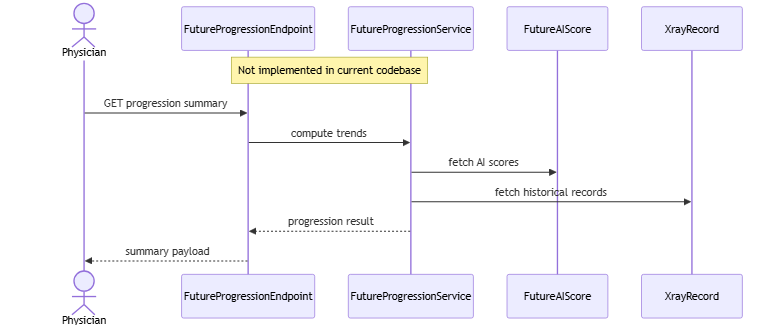
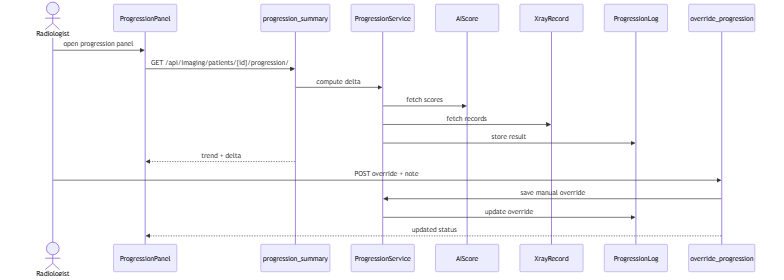
docs(SDD): adjustments for unimplemented modules

diff --git a/documentation/sequence diagrams/3.3_Sequence Diagram.md b/documentation/sequence diagrams/3.3_Sequence Diagram.md
@@ -1,16 +1,24 @@
 ```mermaid
 sequenceDiagram
-    actor Physician
-    participant Endpoint as FutureProgressionEndpoint
-    participant Service as FutureProgressionService
-    participant Score as FutureAIScore
+    actor Radiologist
+    participant UI as ProgressionPanel
+    participant API as progression_summary
+    participant Service as ProgressionService
+    participant Score as AiScore
     participant Rec as XrayRecord
+    participant Log as ProgressionLog
+    participant Override as override_progression
 
-    Note over Endpoint,Service: Not implemented in current codebase
-    Physician->>Endpoint: GET progression summary
-    Endpoint->>Service: compute trends
-    Service->>Score: fetch AI scores
-    Service->>Rec: fetch historical records
-    Service-->>Endpoint: progression result
-    Endpoint-->>Physician: summary payload
+    Radiologist->>UI: open progression panel
+    UI->>API: GET /api/imaging/patients/{id}/progression/
+    API->>Service: compute delta
+    Service->>Score: fetch scores
+    Service->>Rec: fetch records
+    Service->>Log: store result
+    API-->>UI: trend + delta
+
+    Radiologist->>Override: POST override + note
+    Override->>Service: save manual override
+    Service->>Log: update override
+    Override-->>UI: updated status
 ```

diff --git a/documentation/class diagrams/3.1_Class Diagram.md b/documentation/class diagrams/3.1_Class Diagram.md
@@ -3,23 +3,33 @@ classDiagram
     class ProcessedImage {
         +file processed_image
         +json preprocessing_metadata
+        +string ai_tensor_path
     }
 
     class XrayRecord {
         +UUID transaction_id
-        +string status
+        +string ai_status
+    }
+
+    class AiScore {
+        +float probability
+        +string model_version
+        +string ai_status
+        +int inference_ms
+        +datetime created_at
     }
 
     class preprocess_xray
     class upload_xray
-
-    class FutureAIScorer <<planned>>
-    class FutureAIScore <<planned>>
+    class score_xray
+    class AIInferenceService
 
     XrayRecord "1" --> "0..1" ProcessedImage
+    XrayRecord "1" --> "0..1" AiScore
     upload_xray ..> preprocess_xray : generate .npy
     preprocess_xray ..> ProcessedImage : ai_tensor_path
-
-    FutureAIScorer ..> ProcessedImage : load tensor
-    FutureAIScorer ..> FutureAIScore : store scores
+    score_xray ..> AIInferenceService : run inference
+    AIInferenceService ..> AiScore : store score
+    AIInferenceService ..> XrayRecord : update ai_status
+    ProcessedImage ..> AIInferenceService : tensor input
 ```

diff --git a/documentation/class diagrams/4.2_Class Diagram.md b/documentation/class diagrams/4.2_Class Diagram.md
@@ -2,18 +2,29 @@
 classDiagram
     class Patient
     class XrayRecord
+    class DiagnosticReport
+    class Notification
 
     class TechnologistDashboardPage
     class RadiologistDashboardPage
+    class PhysicianDashboardPage
     class technologist_dashboard
     class radiologist_queue
+    class physician_dashboard
+    class notifications
     class TechDashboardRecordSerializer
     class RadiologistQueueSerializer
+    class PhysicianReportSerializer
 
     Patient "1" --> "many" XrayRecord
+    XrayRecord "1" --> "0..1" DiagnosticReport
+    Notification "many" --> "1" DiagnosticReport
 
     TechnologistDashboardPage ..> technologist_dashboard : GET
     RadiologistDashboardPage ..> radiologist_queue : GET
+    PhysicianDashboardPage ..> physician_dashboard : GET
+    PhysicianDashboardPage ..> notifications : GET
     technologist_dashboard ..> TechDashboardRecordSerializer
     radiologist_queue ..> RadiologistQueueSerializer
+    physician_dashboard ..> PhysicianReportSerializer
 ```

diff --git a/documentation/sequence diagrams/4.2_Sequence Diagram.md b/documentation/sequence diagrams/4.2_Sequence Diagram.md
@@ -2,10 +2,14 @@
 sequenceDiagram
     actor Technologist
     actor Radiologist
+    actor Physician
     participant TechPage as TechnologistDashboardPage
     participant RadPage as RadiologistDashboardPage
+    participant PhysPage as PhysicianDashboardPage
     participant TechAPI as technologist_dashboard
     participant RadAPI as radiologist_queue
+    participant PhysAPI as physician_dashboard
+    participant NotifyAPI as notifications
 
     Technologist->>TechPage: open dashboard
     TechPage->>TechAPI: GET /api/imaging/dashboard/technologist/
@@ -14,4 +18,10 @@ sequenceDiagram
     Radiologist->>RadPage: open dashboard
     RadPage->>RadAPI: GET /api/imaging/queue/
     RadAPI-->>RadPage: paginated records
+
+    Physician->>PhysPage: open dashboard
+    PhysPage->>PhysAPI: GET /api/reports/dashboard/physician/
+    PhysAPI-->>PhysPage: report rows
+    PhysPage->>NotifyAPI: GET /api/notifications/
+    NotifyAPI-->>PhysPage: alerts
 ```

diff --git a/documentation/sequence diagrams/4.3_Sequence Diagram.md b/documentation/sequence diagrams/4.3_Sequence Diagram.md
@@ -1,15 +1,20 @@
 ```mermaid
 sequenceDiagram
     actor Physician
-    participant UI as ReportQueryBuilder
-    participant API as ReportingController
-    participant Agg as DataAggregationService
-    participant PDF as PDFExportService
+    participant UI as ReportFilters
+    participant API as aggregate_reports
+    participant Agg as ReportAggregationService
+    participant Export as export_report
+    participant PDF as ReportExport
 
-    Note over UI,API: Not implemented in current codebase
     Physician->>UI: set report filters
-    UI->>API: GET /api/reports
-    API->>Agg: aggregate data
-    API->>PDF: render PDF
-    API-->>UI: report payload
+    UI->>API: GET /api/reports/aggregate/
+    API->>Agg: aggregate metrics
+    Agg-->>API: results
+    API-->>UI: charts + table
+
+    Physician->>Export: POST /api/reports/export/
+    Export->>Agg: reuse metrics
+    Export->>PDF: create export record
+    Export-->>UI: file download
 ```

diff --git a/documentation/class diagrams/3.3_Class Diagram.md b/documentation/class diagrams/3.3_Class Diagram.md
@@ -1,13 +1,20 @@
 ```mermaid
 classDiagram
-    class FutureProgressionEndpoint <<planned>>
-    class FutureProgressionService <<planned>>
-    class FutureProgressionLog <<planned>>
-    class FutureAIScore <<planned>>
+    class Patient
     class XrayRecord
+    class AiScore
+    class ProgressionLog
+    class ProgressionService
+    class progression_summary
+    class override_progression
 
-    FutureProgressionEndpoint ..> FutureProgressionService
-    FutureProgressionService ..> FutureAIScore
-    FutureProgressionService ..> FutureProgressionLog
-    FutureProgressionService ..> XrayRecord
+    Patient "1" --> "many" XrayRecord
+    XrayRecord "1" --> "0..1" AiScore
+    Patient "1" --> "many" ProgressionLog
+
+    progression_summary ..> ProgressionService
+    override_progression ..> ProgressionService
+    ProgressionService ..> AiScore
+    ProgressionService ..> ProgressionLog
+    ProgressionService ..> XrayRecord
 ```

diff --git a/documentation/sequence diagrams/3.1_Sequence Diagram.md b/documentation/sequence diagrams/3.1_Sequence Diagram.md
@@ -1,13 +1,24 @@
 ```mermaid
 sequenceDiagram
-    actor System
+    actor Technologist
+    actor Radiologist
     participant API as upload_xray
     participant Pre as preprocess_xray
-    participant Proc as ProcessedImage
-    participant AIS as FutureAIScorer
+    participant ScoreAPI as score_xray
+    participant AI as AIInferenceService
+    participant DB as AiScore
+    participant Rec as XrayRecord
+    participant UI as RadiologistDashboard / XrayViewer
 
+    Technologist->>API: POST upload
     API->>Pre: generate .npy tensor
     Pre-->>API: ai_tensor_path
-    API->>Proc: update preprocessing_metadata
-    Note over AIS: AI inference not implemented yet
+    API->>Rec: update ai_tensor_path metadata
+
+    Radiologist->>ScoreAPI: GET score
+    ScoreAPI->>AI: run inference
+    AI->>DB: save score
+    AI->>Rec: set ai_status=AVAILABLE
+    ScoreAPI-->>UI: score payload
+    UI-->>Radiologist: render badge
 ```

diff --git a/documentation/class diagrams/4.3_Class Diagram.md b/documentation/class diagrams/4.3_Class Diagram.md
@@ -1,11 +1,13 @@
 ```mermaid
 classDiagram
-    class ReportQueryBuilder <<planned>>
-    class ReportingController <<planned>>
-    class DataAggregationService <<planned>>
-    class PDFExportService <<planned>>
+    class aggregate_reports
+    class export_report
+    class ReportAggregationService
+    class ReportExport
+    class DiagnosticReport
 
-    ReportQueryBuilder ..> ReportingController
-    ReportingController ..> DataAggregationService
-    ReportingController ..> PDFExportService
+    aggregate_reports ..> ReportAggregationService
+    export_report ..> ReportAggregationService
+    export_report ..> ReportExport
+    ReportAggregationService ..> DiagnosticReport
 ```

diff --git a/documentation/SDD.md b/documentation/SDD.md
@@ -430,7 +430,7 @@ AI baseline scores are displayed alongside the X-ray viewer and in the radiologi
 
 **Data Design**
 
-- AiScore
+- AIScore
   - id (PK)
   - xray_record_id (FK -> XrayRecord)
   - probability (float)
